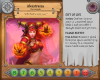
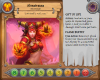
adding Explorer's League, Scarlet Crusade, Ebon Blade, and Wyrmrest factions

diff --git a/hero-card.html b/hero-card.html
@@ -70,10 +70,10 @@
             <a href="hero-card.html?heroName=Alexstrasza"></a>
         </div>
         <div class="hero-card-example" title="Brann Bronzebeard" style="background-image: url('example-brann-bronzebeard-100x80.png');">
-            <a href="hero-card.html?faction=hs&heroName=Brann%20Bronzebeard&heroTitle=Leader%20of%20the%20Explorers'%20League&heroQuote=%22The%20answers%20are%20here%2C%20I%20can%20feel%20it.%22&heroImageUrl=brann-bronzebeard.png&heroImagePosition=0px%200px&health=6&startingLocation=TEMPLE%20OF%20STORMS&startingZone=green&power1Name=SURVEY&power1DescPrefix=Action%3A%20&power1DescSuffix=%2B%E2%9C%8A%F0%9F%8F%BC%20when%20you%20quest%20this%20turn.%20Limit%20once%20per%20turn.&power2Name=HISTORIAN&power2DescPrefix=&power2DescSuffix=When%20you%20quest%2C%20you%20may%20contribute%20the%20top%20card%20of%20the%20hero%20discard%20pile%20as%20if%20it%20were%20in%20your%20hand."></a>
+            <a href="hero-card.html?faction=explorers&heroName=Brann%20Bronzebeard&heroTitle=Leader%20of%20the%20Explorers'%20League&heroQuote=%22The%20answers%20are%20here%2C%20I%20can%20feel%20it.%22&heroImageUrl=brann-bronzebeard.png&heroImagePosition=0px%200px&health=6&startingLocation=TEMPLE%20OF%20STORMS&startingZone=green&power1Name=SURVEY&power1DescPrefix=Action%3A%20&power1DescSuffix=%2B%E2%9C%8A%F0%9F%8F%BC%20when%20you%20quest%20this%20turn.%20Limit%20once%20per%20turn.&power2Name=HISTORIAN&power2DescPrefix=&power2DescSuffix=When%20you%20quest%2C%20you%20may%20contribute%20the%20top%20card%20of%20the%20hero%20discard%20pile%20as%20if%20it%20were%20in%20your%20hand."></a>
         </div>
         <div class="hero-card-example" title="Darion Mograine" style="background-image: url('example-darion-mograine-100x80.png');">
-            <a href="hero-card.html?faction=hs&heroName=Darion%20Mograine&heroTitle=Leader%20of%20The%20Knights%20of%20the%20Ebon%20Blade&heroQuote=%22The%20Knights%20of%20the%20Ebon%20Blade%20will%20not%20falter.%22&heroImageUrl=darion-mograine.png&heroImagePosition=-71px%202px&health=7&startingLocation=shadow%20vault&startingZone=green&power1Name=Dark%20Command&power1DescPrefix=Free%20Action%3A%20&power1DescSuffix=Roll%201%20die%2C%20remove%201%20ghoul%20in%20your%20space%20for%20each%20rolled%20%E2%9C%8A%F0%9F%8F%BC.%20Limit%20once%20per%20turn.&power2Name=Corpse%20Explosion&power2DescPrefix=&power2DescSuffix=For%20every%202%20enemies%20that%20die%20in%20your%20space%20during%20your%20actions,%20deal%201%20damage%20among%20enemies%20in%20connected%20spaces."></a>
+            <a href="hero-card.html?faction=ebon-blade&heroName=Darion%20Mograine&heroTitle=Leader%20of%20The%20Knights%20of%20the%20Ebon%20Blade&heroQuote=%22The%20Knights%20of%20the%20Ebon%20Blade%20will%20not%20falter.%22&heroImageUrl=darion-mograine.png&heroImagePosition=-71px%202px&health=7&startingLocation=shadow%20vault&startingZone=green&power1Name=Dark%20Command&power1DescPrefix=Free%20Action%3A%20&power1DescSuffix=Roll%201%20die%2C%20remove%201%20ghoul%20in%20your%20space%20for%20each%20rolled%20%E2%9C%8A%F0%9F%8F%BC.%20Limit%20once%20per%20turn.&power2Name=Corpse%20Explosion&power2DescPrefix=&power2DescSuffix=For%20every%202%20enemies%20that%20die%20in%20your%20space%20during%20your%20actions,%20deal%201%20damage%20among%20enemies%20in%20connected%20spaces."></a>
         </div>
         <div class="hero-card-example" title="Dranosh Saurfang" style="background-image: url('example-dranosh-saurfang-100x80.png');">
             <a href="hero-card.html?faction=horde&heroName=Dranosh%20Saurfang&heroTitle=Commander%20of%20the%20Kor'kron%20Vanguard&heroQuote=%22Blood%20and%20glory%20await%20us!%22&heroImageUrl=dranosh-saurfang.png&heroImagePosition=-15px%204px&health=6&startingLocation=The%20Wrathgate&startingZone=red&power1Name=Charge&power1DescPrefix=Action%3A%20&power1DescSuffix=Move%20to%20a%20connected%20space%20and%20fight%20in%20that%20space.%20Limit%20once%20per%20turn.&power2Name=Enrage&power2DescPrefix=&power2DescSuffix=%2B%E2%9C%8A%F0%9F%8F%BC%20when%20you%20fight%20if%20you%20have%204%20health%20or%20less."></a>
@@ -85,7 +85,7 @@
             <a href="hero-card.html?faction=alliance&heroName=Jaina%20Proudmoore&heroTitle=Archmage&heroQuote=%22You%20asked%20for%20it.%22&heroImageUrl=jaina-proudmoore.png&heroImagePosition=10px%20-5px&health=6&startingLocation=Valiance%20Keep&startingZone=red&power1Name=Blizzard&power1DescPrefix=Action%3A%20&power1DescSuffix=Remove%20up%20to%202%20ghouls%20from%20a%20connected%20space.%20Each%20hero%20in%20that%20space%20takes%201%20damage.%20Limit%20once%20per%20turn.&power2Name=Ice%20Armor&power2DescPrefix=&power2DescSuffix=%2B%F0%9F%9B%A1%EF%B8%8F%20when%20you%20quest."></a>
         </div>
         <div class="hero-card-example" title="Sally Whitemane" style="background-image: url('example-sally-whitemane-100x80.png');">
-            <a href="hero-card.html?faction=hs&heroName=Sally%20Whitemane&heroTitle=High%20Inquisitor%20of%20the%20Scarlett%20Crusade&heroQuote=%22The%20light%20has%20spoken!%22&heroImageUrl=sally-whitemane.png&heroImagePosition=-1px%20-31px&health=6&startingLocation=utgarde%20keep&startingZone=purple&power1Name=Desperate%20Plea&power1DescPrefix=Free%20Action%3A%20&power1DescSuffix=Roll%201%20die,%201%20hero%20in%20your%20space%20%20heals%201%20for%20each%20rolled%20%E2%9C%8A%F0%9F%8F%BC.%20Limit%20once%20per%20turn.&power2Name=Deep%20Sleep&power2DescPrefix=Action%3A%20&power2DescSuffix=Stop%20all%20abominations%20in%20your%20space%20and%20connected%20spaces%20from%20activating%20this%20turn.%20Limit%20once%20per%20turn."></a>
+            <a href="hero-card.html?faction=scarlet&heroName=Sally%20Whitemane&heroTitle=High%20Inquisitor%20of%20the%20Scarlett%20Crusade&heroQuote=%22The%20light%20has%20spoken!%22&heroImageUrl=sally-whitemane.png&heroImagePosition=-1px%20-31px&health=6&startingLocation=utgarde%20keep&startingZone=purple&power1Name=Desperate%20Plea&power1DescPrefix=Free%20Action%3A%20&power1DescSuffix=Roll%201%20die,%201%20hero%20in%20your%20space%20%20heals%201%20for%20each%20rolled%20%E2%9C%8A%F0%9F%8F%BC.%20Limit%20once%20per%20turn.&power2Name=Deep%20Sleep&power2DescPrefix=Action%3A%20&power2DescSuffix=Stop%20all%20abominations%20in%20your%20space%20and%20connected%20spaces%20from%20activating%20this%20turn.%20Limit%20once%20per%20turn."></a>
         </div>
         <div class="hero-card-example" title="Valeera Sanguinar" style="background-image: url('example-valeera-sanguinar-100x80.png');">
             <a href="hero-card.html?faction=alliance&heroName=Valeera%20Sanguinar&heroTitle=Champion%20of%20the%20Crimson%20Ring&heroQuote=%22Respect%20my%20people%2C%20or%20pay%20the%20price!%22&heroImageUrl=valeera-sanguinar.png&heroImagePosition=10px%20-5px&health=7&startingLocation=Valiance%20Keep&startingZone=red&power1Name=Sinister%20Strike&power1DescPrefix=Action%3A%20&power1DescSuffix=Move%20to%20a%20connected%20space%20and%20remove%201%20ghoul%20from%20that%20space.%20Limit%20once%20per%20turn.&power2Name=Poisoned%20Blades&power2DescPrefix=&power2DescSuffix=%2B%E2%9C%8A%F0%9F%8F%BC%20when%20you%20fight."></a>

diff --git a/all-heroes.js b/all-heroes.js
@@ -18,7 +18,7 @@ heroConfigs = [
         "power2DescSuffix": "Move to a connected space. Limit once per turn."
     },
     {
-        "faction": "hs",
+        "faction": "wyrmrest",
         "heroName": "Alexstrasza",
         "heroTitle": "The Life-Binder",
         "heroQuote": "\"Life itself is with you.\"",
@@ -54,7 +54,7 @@ heroConfigs = [
         "power2DescSuffix": "Heroes in your space have +🛡 when they fight."
     },
     {
-        "faction": "hs",
+        "faction": "explorers",
         "heroName": "Brann Bronzebeard",
         "heroTitle": "Leader of the Explorers' League",
         "heroQuote": "\"The answers are here, I can feel it.\"",
@@ -72,7 +72,7 @@ heroConfigs = [
         "power2DescSuffix": "When you quest, you may contribute the top card of the hero discard pile as if it were in your hand."
     },
     {
-        "faction": "hs",
+        "faction": "wyrmrest",
         "heroName": "Chromie",
         "heroTitle": "Ambassador of the Bronze Dragonflight",
         "heroQuote": "\"Is this the first time we've met?\"",
@@ -108,7 +108,7 @@ heroConfigs = [
         "power2DescSuffix": "+✊🏼 when you fight if you have 4 health or less."
     },
     {
-        "faction": "hs",
+        "faction": "ebon-blade",
         "heroName": "Darion Mograine",
         "heroTitle": "Leader of The Knights of the Ebon Blade",
         "heroQuote": "\"The Knights of the Ebon Blade will not falter.\"",
@@ -162,7 +162,7 @@ heroConfigs = [
         "power2DescSuffix": "+🛡 when you quest."
     },
     {
-        "faction": "hs",
+        "faction": "wyrmrest",
         "heroName": "Kalecgos",
         "heroTitle": "Ambassador of the Blue Dragonflight",
         "heroQuote": "\"The fate of the world hangs in the balance.\"",
@@ -216,7 +216,7 @@ heroConfigs = [
         "power2DescSuffix": "Move a hero in your region to Dalaran. Limit once per turn."
     },
     {
-        "faction": "hs",
+        "faction": "scarlet",
         "heroName": "Sally Whitemane",
         "heroTitle": "High Inquisitor of the Scarlett Crusade",
         "heroQuote": "\"The light has spoken!\"",

diff --git a/hero-card.js b/hero-card.js
@@ -8,7 +8,7 @@
 
     document.querySelector('.faction-image').addEventListener('click', function() {
       const prevImage = window.getComputedStyle(this).getPropertyValue('background-image');
-      const factions = ['alliance', 'horde', 'argent', 'kirin-tor', 'hs'];
+      const factions = ['alliance', 'horde', 'argent', 'explorers', 'kirin-tor', 'scarlet', 'ebon-blade', 'wyrmrest', 'hs'];
       let faction = prevImage.slice(prevImage.indexOf('-') + 1, prevImage.lastIndexOf('.'));
       let nextIndex = (factions.indexOf(faction) + 1) % factions.length;
       const nextImage = prevImage.slice(0, prevImage.indexOf('-') + 1) + factions[nextIndex] + '.png")';

diff --git a/hero-card.css b/hero-card.css
@@ -71,7 +71,7 @@
       height: 75px;
       width: 75px;
 
-      background-image: url('faction-hs.png');
+      background-image: url('faction-wyrmrest.png');
       background-size: 67%;
       margin-left: 2px;
       background-position: center;
